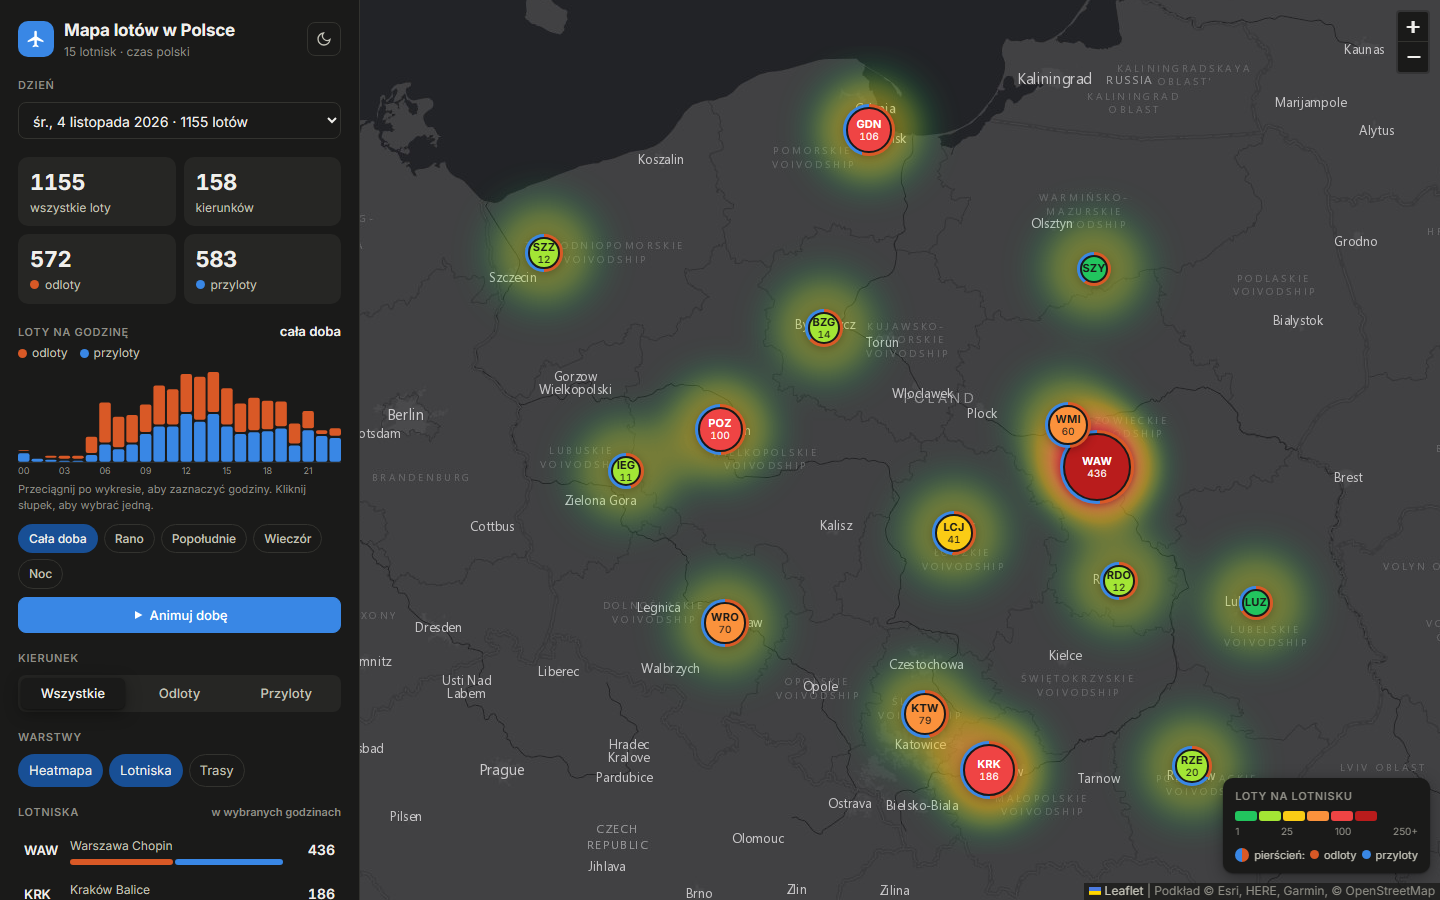
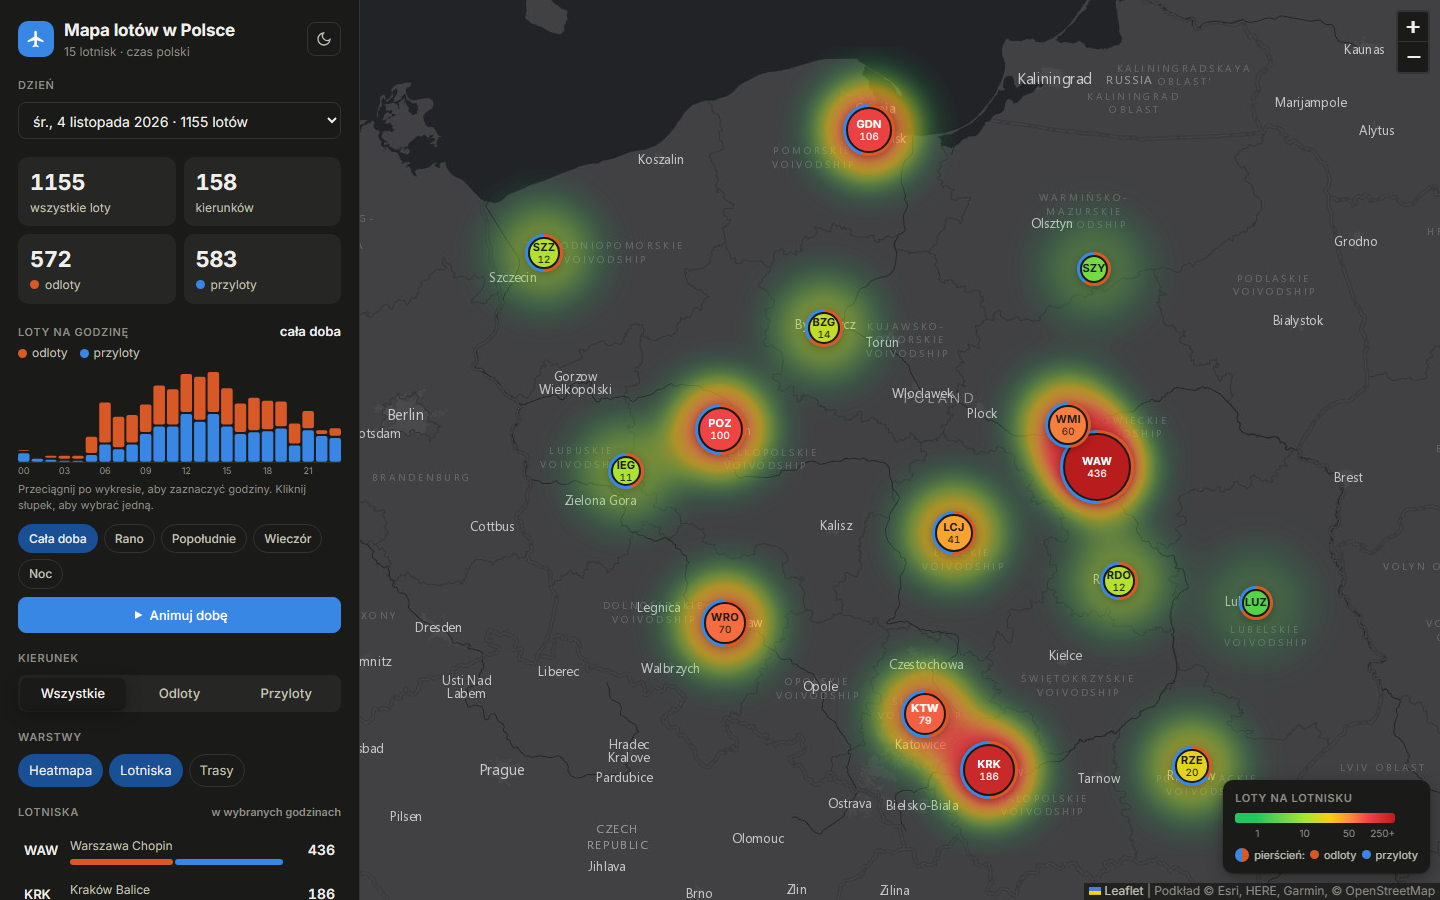
Wspólna skala kolorów dla heatmapy i plakietek lotnisk
Heatmapa normalizowała natężenie do bieżącego maksimum, więc np. 20 lotów
o jednej godzinie świeciło na czerwono, a plakietka była zielona. Teraz obie
warstwy używają tej samej bezwzględnej, logarytmicznej skali (1-250+ lotów),
a legenda pokazuje ciągły pasek z progami.

diff --git a/index.html b/index.html
@@ -216,7 +216,11 @@ button { font: inherit; }
 .map-legend .ramp i { width: 22px; height: 10px; border-radius: 3px; display: block; }
 .ring-legend { display: flex; align-items: center; gap: 5px; margin-top: 8px; color: var(--text-2); font-size: 11px; }
 .ring-demo { width: 14px; height: 14px; border-radius: 50%; background: conic-gradient(var(--dep) 0 50%, var(--arr) 50% 100%); }
-.map-legend .heatbar { height: 10px; border-radius: 3px; width: 142px; }
+.map-legend .heatbar { height: 10px; border-radius: 3px; width: 160px; }
+.map-legend .ticks.abs { position: relative; height: 13px; width: 160px; display: block; }
+.map-legend .ticks.abs span { position: absolute; transform: translateX(-50%); }
+.map-legend .ticks.abs span:first-child { transform: none; }
+.map-legend .ticks.abs span:last-child { transform: translateX(-100%); }
 .map-legend .ticks { display: flex; justify-content: space-between; color: var(--text-3); font-size: 10px; margin-top: 3px; }
 #tip {
   position: fixed; z-index: 2000; pointer-events: none; display: none;
@@ -370,7 +374,6 @@ const SEQ = [
 // Zielony = mały ruch, czerwony = największy (w obu motywach).
 // Liczby na plakietkach są drugim nośnikiem informacji dla osób nierozróżniających zieleni i czerwieni.
 const BADGE_STOPS = ["#22c55e", "#a3e635", "#facc15", "#fb923c", "#ef4444", "#b91c1c"];
-const badgeStops = () => BADGE_STOPS;
 // Tekst na plakietce: ciemny na jasnym tle, biały na ciemnym (wg jasności koloru).
 function inkFor(hex) {
   const [r, g, b] = [1, 3, 5].map((i) => parseInt(hex.slice(i, i + 2), 16) / 255)
@@ -414,16 +417,33 @@ function localParts(ts) {
 }
 const inWindow = (h) => state.from <= state.to ? h >= state.from && h <= state.to : h >= state.from || h <= state.to;
 
-// Heatmapa: ta sama skala, od zielonego (mało) do czerwonego (dużo).
+// Wspólna, BEZWZGLĘDNA skala dla heatmapy i plakietek: liczba lotów -> t (0..1) w skali logarytmicznej,
+// 250+ lotów = 1. Dzięki temu 20 lotów ma zawsze ten sam kolor, niezależnie od wybranych godzin
+// (wcześniej heatmapa normalizowała do bieżącego maksimum i 20 lotów w nocy świeciło na czerwono).
+const SCALE_MAX = 250;
+const tOf = (n) => (n <= 0 ? 0 : Math.min(1, Math.log1p(n) / Math.log1p(SCALE_MAX)));
+const STOP_POS = SEQ.map((s) => tOf(s.min)); // pozycje kolorów na skali: 1, 10, 25, 50, 100, 250
+
 function heatGradient() {
-  const s = badgeStops(); // ta sama skala co plakietki lotnisk
-  return { 0.1: s[0], 0.3: s[1], 0.5: s[2], 0.7: s[3], 0.85: s[4], 1: s[5] };
+  return Object.fromEntries(STOP_POS.map((p, i) => [p.toFixed(3), BADGE_STOPS[i]]));
+}
+
+// Kolor w punkcie t skali (interpolacja między sąsiednimi kolorami, tak jak robi heatmapa).
+function colorAt(t) {
+  if (t <= STOP_POS[0]) return BADGE_STOPS[0];
+  for (let i = 1; i < STOP_POS.length; i++) {
+    if (t <= STOP_POS[i]) {
+      const f = (t - STOP_POS[i - 1]) / (STOP_POS[i] - STOP_POS[i - 1]);
+      const a = BADGE_STOPS[i - 1], b = BADGE_STOPS[i];
+      const ch = (hex, k) => parseInt(hex.slice(1 + 2 * k, 3 + 2 * k), 16);
+      return "#" + [0, 1, 2].map((k) => Math.round(ch(a, k) + (ch(b, k) - ch(a, k)) * f).toString(16).padStart(2, "0")).join("");
+    }
+  }
+  return BADGE_STOPS[BADGE_STOPS.length - 1];
 }
 
 function seqColor(total) {
-  if (!total) return css("--zero");
-  const level = SEQ.reduce((i, s, k) => (total >= s.min ? k : i), 0);
-  return badgeStops()[level];
+  return total ? colorAt(tOf(total)) : css("--zero");
 }
 
 function airportLabel(icao, short = false) {
@@ -571,12 +591,12 @@ function setupHistogram() {
 
 function renderMap(list, counts) {
   const dark = isDark();
-  // Heatmapa (pierwiastek z liczby lotów, żeby małe lotniska były widoczne obok WAW).
+  // Heatmapa: waga punktu = pozycja na wspólnej skali, więc środek plamy ma kolor plakietki.
   const max = Math.max(1, ...Object.values(counts).map((c) => c.total));
   if (map.getSize().x > 0) {
-    heatLayer.setOptions({ max: Math.sqrt(max), gradient: heatGradient() });
+    heatLayer.setOptions({ max: 1, gradient: heatGradient() });
     heatLayer.setLatLngs(Object.entries(counts).filter(([, c]) => c.total > 0)
-      .map(([icao, c]) => [AIRPORTS[icao].lat, AIRPORTS[icao].lon, Math.sqrt(c.total)]));
+      .map(([icao, c]) => [AIRPORTS[icao].lat, AIRPORTS[icao].lon, tOf(c.total)]));
   }
 
   renderRoutes(list, dark); // trasy przed lotniskami, żeby kółka były na wierzchu
@@ -810,7 +830,7 @@ async function init() {
   map.fitBounds(Object.values(AIRPORTS).map((a) => [a.lat, a.lon]), { padding: [40, 40] });
   applyTiles();
 
-  heatLayer = L.heatLayer ? L.heatLayer([], { radius: 55, blur: 38, minOpacity: 0.4, maxZoom: 0 /* pełna intensywność przy każdym przybliżeniu */, gradient: heatGradient() }) : L.layerGroup();
+  heatLayer = L.heatLayer ? L.heatLayer([], { radius: 55, blur: 38, minOpacity: 0.05, maxZoom: 0 /* pełna intensywność przy każdym przybliżeniu */, gradient: heatGradient() }) : L.layerGroup();
   if (!heatLayer.setLatLngs) { heatLayer.setLatLngs = () => {}; heatLayer.setOptions = () => {}; }
   routeLayer = L.layerGroup();
   circleLayer = L.layerGroup();
@@ -822,8 +842,8 @@ async function init() {
     const div = L.DomUtil.create("div", "map-legend");
     // Jedna skala dla heatmapy i plakietek: kolor = natężenie ruchu.
     div.innerHTML = `<h4>Loty na lotnisku</h4>
-      <div class="ramp">${badgeStops().map((c) => `<i style="background:${c}"></i>`).join("")}</div>
-      <div class="ticks">${SEQ.filter((_, i) => i % 2 === 0 || i === SEQ.length - 1).map((s) => `<span>${s.label}</span>`).join("")}</div>
+      <div class="heatbar" style="background:linear-gradient(90deg,${BADGE_STOPS.map((c, i) => `${c} ${(STOP_POS[i] * 100).toFixed(1)}%`).join(",")})"></div>
+      <div class="ticks abs">${SEQ.filter((s) => [1, 10, 50, 250].includes(s.min)).map((s) => `<span style="left:${(tOf(s.min) * 100).toFixed(1)}%">${s.label}</span>`).join("")}</div>
       <div class="ring-legend"><span class="ring-demo"></span>pierścień: <i class="dot dep"></i>odloty <i class="dot arr"></i>przyloty</div>`;
     return div;
   };
